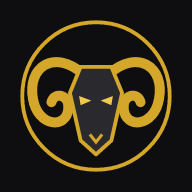
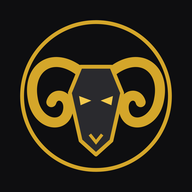
v100 Appbar ram mark keeps a 1:1 aspect on iPhone (the v96 search button plus the 430 px Black Ram wordmark was shrinking the SVG to about 22x32 and wrapping the name). Flex-shrink 0, object-fit contain, explicit 32 px size; wordmark only from 560 px. Compact packing through 559 px so last-pull and 

diff --git a/index.html b/index.html
@@ -11,14 +11,14 @@
   <meta name="apple-mobile-web-app-status-bar-style" content="black" />
   <meta name="apple-mobile-web-app-title" content="Black Ram" />
   <title>Black Ram Logistics</title>
-  <link rel="manifest" href="manifest.webmanifest?v=5" />
-  <link rel="icon" href="favicon.ico?v=3" sizes="any" />
-  <link rel="icon" href="icons/favicon-32.png?v=3" sizes="32x32" type="image/png" />
-  <link rel="icon" href="icons/icon-192.png?v=3" sizes="192x192" type="image/png" />
-  <link rel="apple-touch-icon" href="icons/apple-touch-icon.png?v=3" sizes="180x180" />
+  <link rel="manifest" href="manifest.webmanifest?v=6" />
+  <link rel="icon" href="favicon.ico?v=4" sizes="any" />
+  <link rel="icon" href="icons/favicon-32.png?v=4" sizes="32x32" type="image/png" />
+  <link rel="icon" href="icons/icon-192.png?v=4" sizes="192x192" type="image/png" />
+  <link rel="apple-touch-icon" href="icons/apple-touch-icon.png?v=4" sizes="180x180" />
   <link rel="preload" href="fonts/nunito-sans-variable.woff2" as="font" type="font/woff2" crossorigin />
   <link rel="preload" href="fonts/oswald-700.woff2" as="font" type="font/woff2" crossorigin />
-  <link rel="stylesheet" href="styles.css?v=99" />
+  <link rel="stylesheet" href="styles.css?v=100" />
   <link rel="stylesheet" href="vendor/leaflet/leaflet.css" />
   <script>
     try {
@@ -65,7 +65,7 @@
 
     <header class="appbar" id="appbar">
       <button type="button" class="appbar-brand" id="appbar-home" aria-label="Black Ram home">
-        <svg viewBox="0 0 200 200" aria-hidden="true"><circle cx="100" cy="100" r="94" fill="#0f0d17" stroke="#D4A62A" stroke-width="10"/><path d="M84,72 C46,38 10,62 18,104 C24,140 62,144 64,116 C65,98 46,94 42,108" fill="none" stroke="#D4A62A" stroke-width="15" stroke-linecap="round"/><g transform="translate(200,0) scale(-1,1)"><path d="M84,72 C46,38 10,62 18,104 C24,140 62,144 64,116 C65,98 46,94 42,108" fill="none" stroke="#D4A62A" stroke-width="15" stroke-linecap="round"/></g><polygon points="80,62 120,62 134,96 120,158 100,176 80,158 66,96" fill="#2A2A2E" stroke="#D4A62A" stroke-width="7" stroke-linejoin="round"/></svg>
+        <svg viewBox="0 0 200 200" width="32" height="32" preserveAspectRatio="xMidYMid meet" aria-hidden="true"><circle cx="100" cy="100" r="94" fill="#0f0d17" stroke="#D4A62A" stroke-width="10"/><path d="M84,72 C46,38 10,62 18,104 C24,140 62,144 64,116 C65,98 46,94 42,108" fill="none" stroke="#D4A62A" stroke-width="15" stroke-linecap="round"/><g transform="translate(200,0) scale(-1,1)"><path d="M84,72 C46,38 10,62 18,104 C24,140 62,144 64,116 C65,98 46,94 42,108" fill="none" stroke="#D4A62A" stroke-width="15" stroke-linecap="round"/></g><polygon points="80,62 120,62 134,96 120,158 100,176 80,158 66,96" fill="#2A2A2E" stroke="#D4A62A" stroke-width="7" stroke-linejoin="round"/></svg>
         <span>Black Ram</span>
       </button>
       <button type="button" class="appbar-status" id="appbar-status" data-state="idle" aria-label="Last pull status. Open Load Boards">
@@ -519,7 +519,7 @@
       <footer class="footer">
         <p><strong>Black Ram Logistics</strong> | DBA of Sand Lily Pad LLC</p>
         <p>Estimates are marked EST. Not a quote and not tax advice.</p>
-        <p class="app-version" id="app-version">v98</p>
+        <p class="app-version" id="app-version">v100</p>
       </footer>
       <div class="pad" aria-hidden="true"></div>
     </main>
@@ -684,24 +684,24 @@
   </div>
   <noscript><p class="noscript">Black Ram Logistics needs JavaScript for Rate Check, stops, and reports.</p></noscript>
   <script src="vendor/leaflet/leaflet.js"></script>
-  <script src="tiles.js?v=99"></script>
-  <script src="maps.js?v=99"></script>
-  <script src="tripplan.js?v=99"></script>
-  <script src="app.js?v=99"></script>
-  <script src="stops.js?v=99"></script>
-  <script src="targets.js?v=99"></script>
-  <script src="loadcosts.js?v=99"></script>
-  <script src="reports.js?v=99"></script>
-  <script src="scoreboard.js?v=99"></script>
-  <script src="accounting.js?v=99"></script>
-  <script src="insurance.js?v=99"></script>
-  <script src="maintenance.js?v=99"></script>
-  <script src="dotready.js?v=99"></script>
-  <script src="tax.js?v=99"></script>
-  <script src="rig360.js?v=99"></script>
-  <script src="driver360.js?v=99"></script>
-  <script src="today.js?v=99"></script>
-  <script src="search.js?v=99"></script>
+  <script src="tiles.js?v=100"></script>
+  <script src="maps.js?v=100"></script>
+  <script src="tripplan.js?v=100"></script>
+  <script src="app.js?v=100"></script>
+  <script src="stops.js?v=100"></script>
+  <script src="targets.js?v=100"></script>
+  <script src="loadcosts.js?v=100"></script>
+  <script src="reports.js?v=100"></script>
+  <script src="scoreboard.js?v=100"></script>
+  <script src="accounting.js?v=100"></script>
+  <script src="insurance.js?v=100"></script>
+  <script src="maintenance.js?v=100"></script>
+  <script src="dotready.js?v=100"></script>
+  <script src="tax.js?v=100"></script>
+  <script src="rig360.js?v=100"></script>
+  <script src="driver360.js?v=100"></script>
+  <script src="today.js?v=100"></script>
+  <script src="search.js?v=100"></script>
   <script>
     (function () {
       if (!('serviceWorker' in navigator)) return;

diff --git a/styles.css b/styles.css
@@ -101,7 +101,7 @@ button { cursor: pointer; -webkit-tap-highlight-color: transparent; }
   min-height: 36px;
 }
 .logo-wrap { display: flex; justify-content: center; }
-.logo-wrap svg { width: min(100%, 340px); height: auto; display: block; }
+.logo-wrap svg { width: min(100%, 340px); height: auto; aspect-ratio: 720 / 190; object-fit: contain; flex-shrink: 0; display: block; }
 .tag {
   display: inline-block;
   margin: 6px 0 0;
@@ -508,7 +508,7 @@ details.expenses summary {
 html.splash-seen #about:not(.open) { display: none; }
 .sheet-inner { width: min(440px, 100%); }
 .sheet-top { display: flex; justify-content: flex-end; }
-.sheet svg { width: min(100%, 300px); height: auto; display: block; margin: 0 auto 8px; }
+.sheet svg { width: min(100%, 300px); height: auto; aspect-ratio: auto 500 / 390; object-fit: contain; flex-shrink: 0; display: block; margin: 0 auto 8px; }
 .sheet h2 {
   font-family: var(--display);
   font-weight: 600;
@@ -4481,12 +4481,20 @@ main { padding: 0 var(--s-2) calc(var(--bnav-h) + var(--s-3) + env(safe-area-ins
 .appbar button { font: inherit; color: inherit; cursor: pointer; }
 .appbar-brand {
   display: flex; align-items: center; gap: var(--s-1);
+  flex: 0 0 auto;
   min-width: var(--tap); min-height: var(--tap);
   padding: 0 4px; border: 0; background: transparent;
 }
-.appbar-brand svg { width: 32px; height: 32px; display: block; }
-.appbar-brand span { display: none; font-weight: var(--fw-black); font-size: var(--fs-md); letter-spacing: 0.02em; }
-@media (min-width: 430px) { .appbar-brand span { display: inline; } }
+.appbar-brand svg {
+  width: 32px; height: 32px; flex-shrink: 0;
+  aspect-ratio: 1 / 1; object-fit: contain; overflow: visible;
+  display: block;
+}
+.appbar-brand span {
+  display: none; white-space: nowrap; flex-shrink: 0;
+  font-weight: var(--fw-black); font-size: var(--fs-md); letter-spacing: 0.02em;
+}
+@media (min-width: 560px) { .appbar-brand span { display: inline; } }
 .appbar-status {
   flex: 1 1 auto; min-width: 0;
   display: flex; align-items: center; gap: var(--s-1);
@@ -4517,6 +4525,7 @@ main { padding: 0 var(--s-2) calc(var(--bnav-h) + var(--s-3) + env(safe-area-ins
 .hdr-wx-label { font-size: var(--fs-xs); font-weight: var(--fw-black); letter-spacing: 0.04em; color: var(--c-text-2); white-space: nowrap; }
 .appbar-icon {
   flex: 0 0 var(--tap);
+  flex-shrink: 0;
   width: var(--tap); height: var(--tap);
   display: flex; align-items: center; justify-content: center;
   border-radius: var(--radius-md);
@@ -5537,14 +5546,19 @@ header.top .rig-stage[data-r360] .rig-floor { transition: opacity 0.5s ease; }
 .rc-verdict.pass .rcv-net-n { color: var(--c-text-2); }
 .dr-t-cdl b { color: var(--num-yellow); }
 
-/* v96: appbar fits the new search button on a 390 px phone without cutting the last-pull time */
-@media (max-width: 420px) {
+/* v96/v100: pack the appbar on phones so search + last-pull fit. The ram mark
+   never shrinks or changes aspect (v96's 430 px wordmark + search squeezed it). */
+@media (max-width: 559px) {
   .appbar { gap: 6px; padding-left: 8px; padding-right: 8px; }
-  .appbar-brand { min-width: 36px; padding: 0; }
-  .appbar-brand svg { width: 30px; height: 30px; }
+  .appbar-brand { min-width: var(--tap); padding: 0; }
+  .appbar-brand svg { width: 32px; height: 32px; }
   .appbar-status { padding: 6px 10px; gap: 6px; }
   .hdr-wx { padding: 0 2px; gap: 5px; }
-  .appbar-icon { flex-basis: 40px; width: 40px; height: 40px; }
+  .appbar-icon { flex: 0 0 40px; width: 40px; height: 40px; }
+}
+@media (max-width: 379px) {
+  /* iPhone SE width: drop the WX ON letters so last-pull time is not ellipsized */
+  .hdr-wx-label { display: none; }
 }
 
 /* v97: dispatch contact lock inside the broker call sheet */

diff --git a/sw.js b/sw.js
@@ -8,56 +8,57 @@
    data/load_searches.json and data/pull_status.json are always fetched with
    cache: 'no-store' and are not precached. A cached copy is used only when
    the network request fails, so live search progress shows without a version bump. */
-var CACHE = 'blackram-v99';
+var CACHE = 'blackram-v100';
 var ASSETS = [
   './',
   './index.html',
   './styles.css',
-  './styles.css?v=99',
+  './styles.css?v=100',
   './app.js',
-  './app.js?v=99',
+  './app.js?v=100',
   './maps.js',
-  './maps.js?v=99',
+  './maps.js?v=100',
   './stops.js',
-  './stops.js?v=99',
+  './stops.js?v=100',
   './targets.js',
   './loadcosts.js',
-  './loadcosts.js?v=99',
+  './loadcosts.js?v=100',
   './tripplan.js',
-  './tripplan.js?v=99',
+  './tripplan.js?v=100',
   './data/pilot_fj.json',
-  './targets.js?v=99',
+  './targets.js?v=100',
   './reports.js',
-  './reports.js?v=99',
+  './reports.js?v=100',
   './scoreboard.js',
   './accounting.js',
-  './accounting.js?v=99',
+  './accounting.js?v=100',
   './insurance.js',
-  './insurance.js?v=99',
+  './insurance.js?v=100',
   './maintenance.js',
-  './maintenance.js?v=99',
+  './maintenance.js?v=100',
   './dotready.js',
-  './dotready.js?v=99',
+  './dotready.js?v=100',
   './tax.js',
-  './tax.js?v=99',
+  './tax.js?v=100',
   './rig360.js',
   './tiles.js',
-  './tiles.js?v=99',
-  './rig360.js?v=99',
+  './tiles.js?v=100',
+  './rig360.js?v=100',
   './driver360.js',
-  './driver360.js?v=99',
+  './driver360.js?v=100',
   './today.js',
-  './today.js?v=99',
+  './today.js?v=100',
   './search.js',
-  './search.js?v=99',
+  './search.js?v=100',
   './brand/meshach-360.png',
   './vendor/three/three.module.min.js',
-  './scoreboard.js?v=99',
+  './scoreboard.js?v=100',
   './manifest.json',
   './manifest.json?v=3',
   './manifest.webmanifest',
   './manifest.webmanifest?v=3',
   './manifest.webmanifest?v=5',
+  './manifest.webmanifest?v=6',
   './brand/horizontal.svg',
   './brand/icon.svg',
   './brand/primary.svg',
@@ -65,19 +66,19 @@ var ASSETS = [
   './brand/rig-800.png',
   './brand/trailer-diagram.webp',
   './favicon.ico',
-  './favicon.ico?v=3',
+  './favicon.ico?v=4',
   './icons/favicon-32.png',
-  './icons/favicon-32.png?v=3',
+  './icons/favicon-32.png?v=4',
   './icons/apple-touch-icon.png',
-  './icons/apple-touch-icon.png?v=3',
+  './icons/apple-touch-icon.png?v=4',
   './icons/icon-192.png',
-  './icons/icon-192.png?v=3',
+  './icons/icon-192.png?v=4',
   './icons/icon-512.png',
-  './icons/icon-512.png?v=3',
+  './icons/icon-512.png?v=4',
   './icons/icon-192-maskable.png',
-  './icons/icon-192-maskable.png?v=3',
+  './icons/icon-192-maskable.png?v=4',
   './icons/icon-512-maskable.png',
-  './icons/icon-512-maskable.png?v=3',
+  './icons/icon-512-maskable.png?v=4',
   './fonts/nunito-sans-variable.woff2',
   './fonts/oswald-500.woff2',
   './fonts/oswald-600.woff2',

diff --git a/app.js b/app.js
@@ -1,7 +1,7 @@
 (function () {
   'use strict';
 
-  var APP_VERSION = 'v99';
+  var APP_VERSION = 'v100';
   var RELAY_URL = 'https://blackram-relay.sandlilypad.workers.dev';
   var RELAY_PIN_KEY = 'blackram_relay_pin_v1';
   var DELIVERED_SYNC_KEY = 'blackram_delivered_sync_v1';
